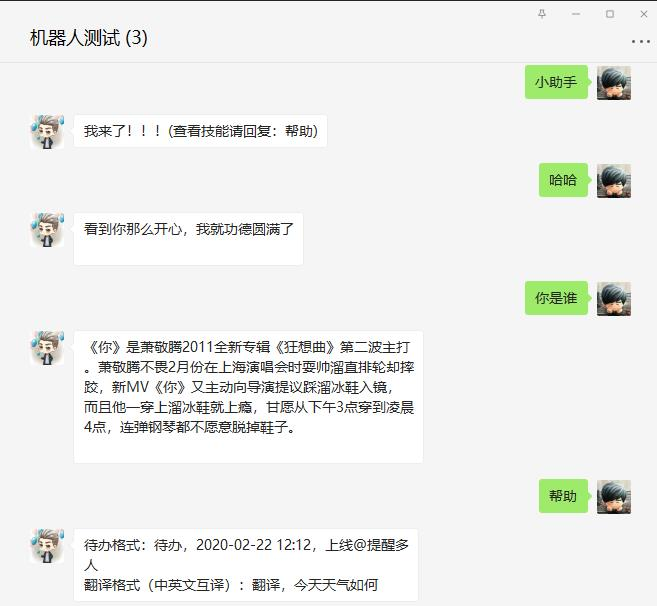
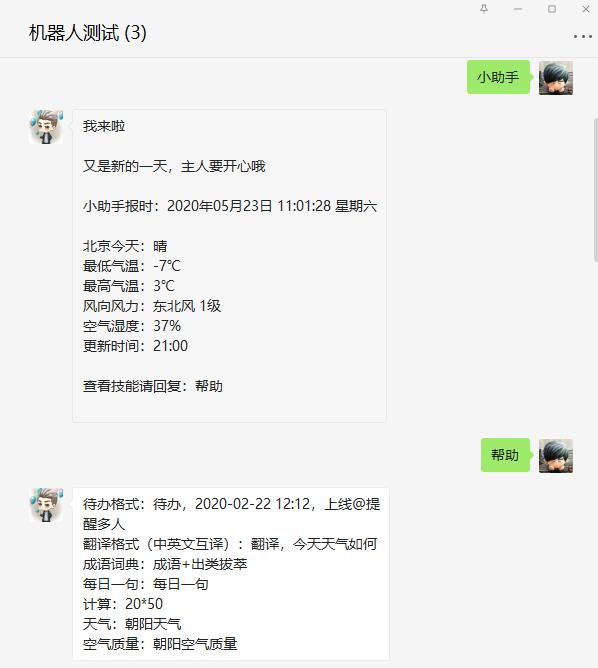
add a teaser

diff --git a/_posts/2020-05-20-wechaty-team-robot.md b/_posts/2020-05-20-wechaty-team-robot.md
@@ -6,6 +6,8 @@ categories: project
 tags:
   - wechaty
   - wechaty-puppet-padplus
+header:
+  teaser: /assets/2020/wechaty-team-robot/2020-05-20-wechaty-team-robot_header.jpg 
 ---
 <!-- markdownlint-disable -->
 > 作者: [suruozhong](https://github.com/suruozhong)
@@ -211,11 +213,18 @@ exports.taskSendMessage = async function(bot){
   - 群聊私聊中开启自动回复后，可以和机器人聊天
 - 定时获取并发送的待办提醒（私聊或者群聊@多人）
 - 中英文互译
+- 成语词典
+- 每日一句
+- 数字计算
+- 天气预报
+- 空气质量
 
 ## 效果图
 
 ![1](/assets/2020/wechaty-team-robot/2020-05-20-wechaty-team-robot1.jpg)
 ![2](/assets/2020/wechaty-team-robot/2020-05-20-wechaty-team-robot2.jpg)
+![3](/assets/2020/wechaty-team-robot/2020-05-20-wechaty-team-robot3.jpg)
+![4](/assets/2020/wechaty-team-robot/2020-05-20-wechaty-team-robot4.jpg)
 
 ## 待实现需求
 
